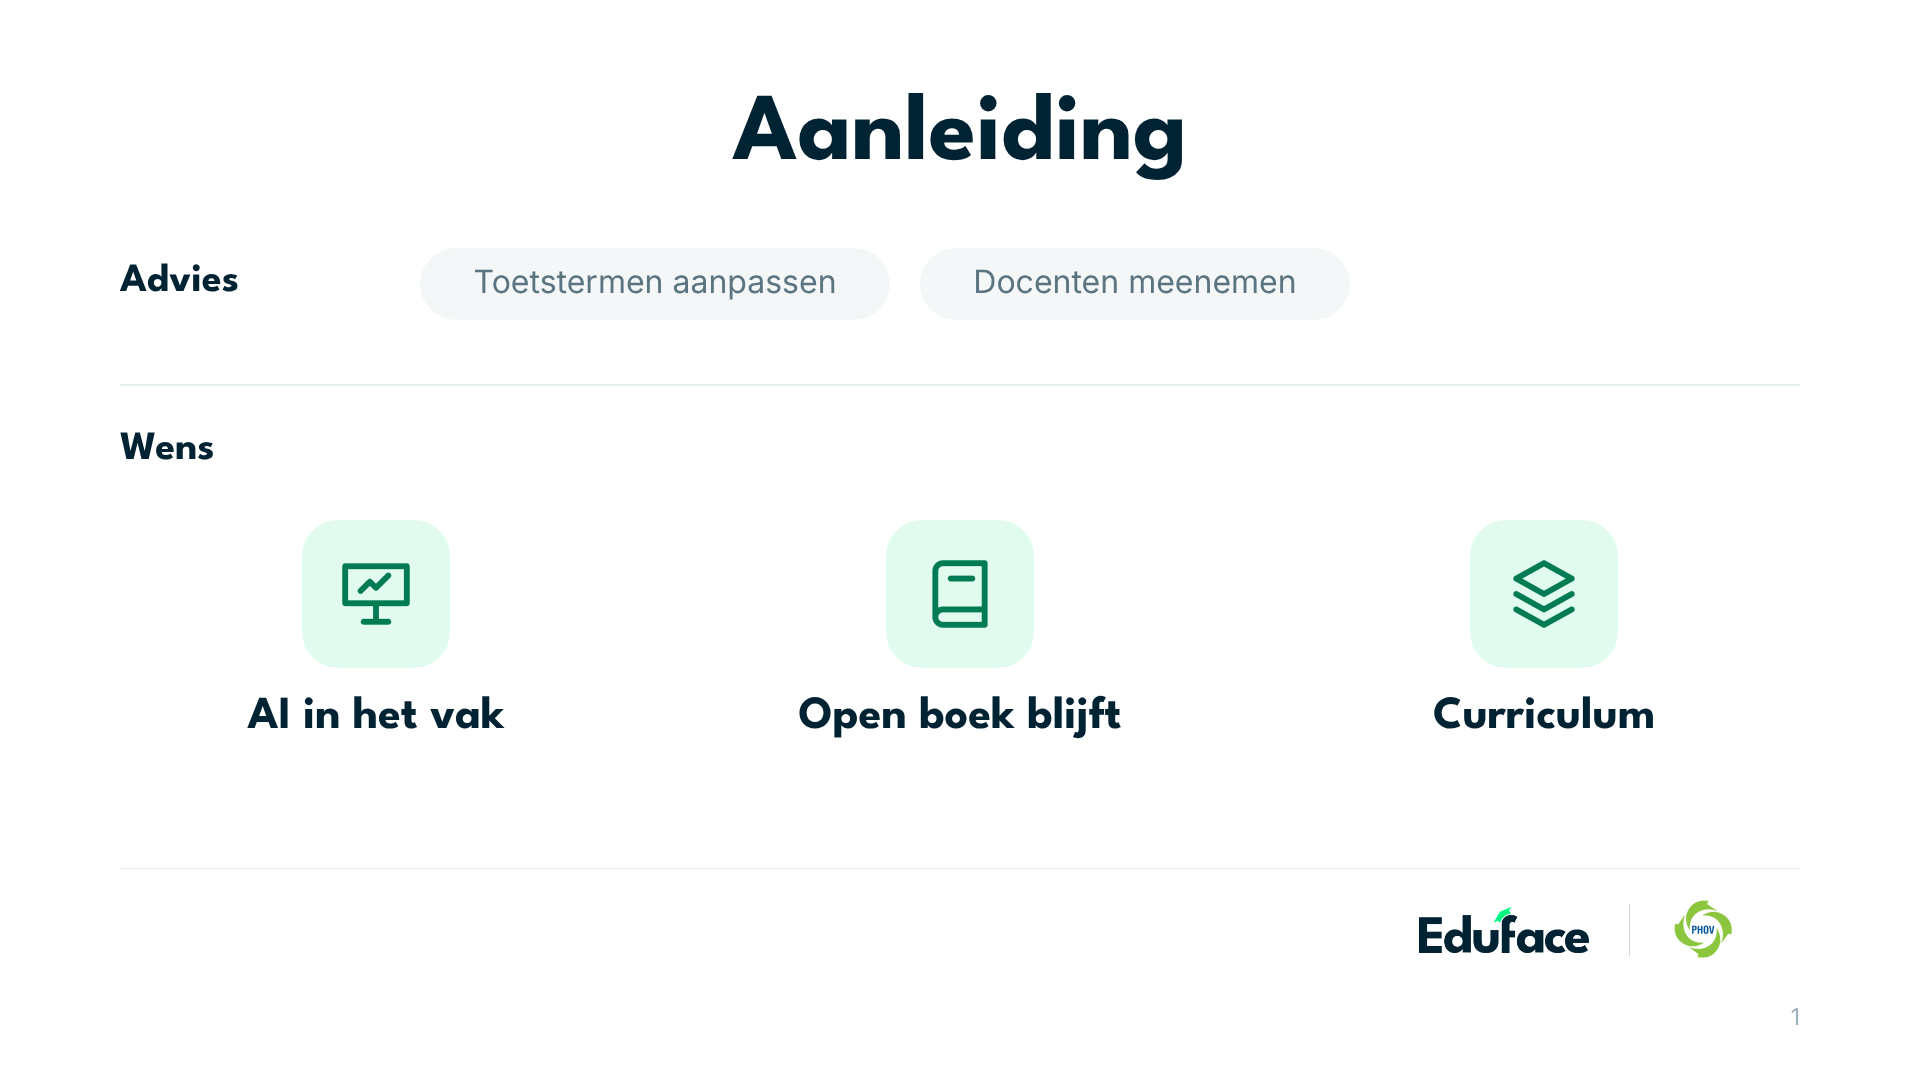
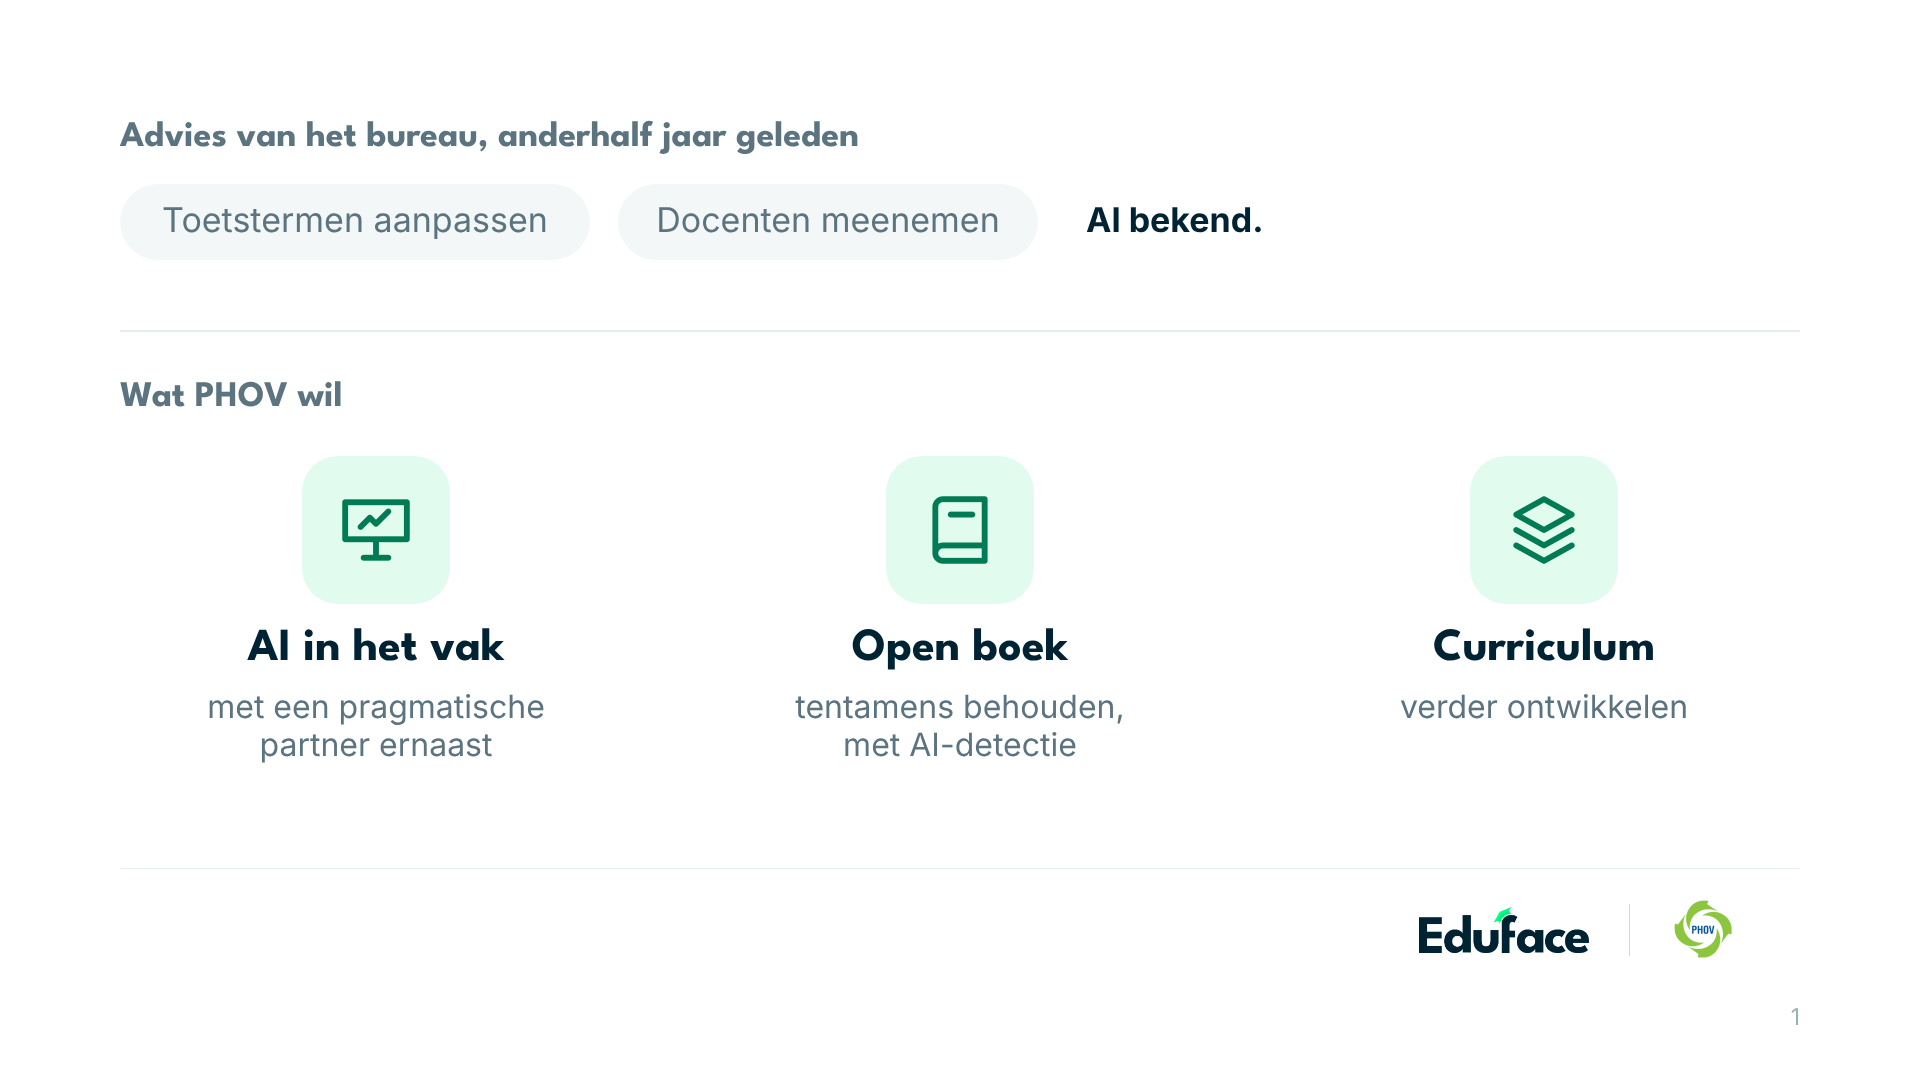
PHOV-deck: slide 1 aanleiding
Claude-Session: https://claude.ai/code/session_011t24oQakExxjssoBJFRTe8

diff --git a/GTM/Accounts/phov/deck/preview/01-aanleiding.html b/GTM/Accounts/phov/deck/preview/01-aanleiding.html
@@ -1,1 +1,3 @@
-<!DOCTYPE html><html lang="nl"><head><meta charset="utf-8"><link href="https://fonts.googleapis.com/css2?family=League+Spartan:wght@400;600;700;800&family=Inter:wght@400;500;600;700&display=swap" rel="stylesheet"><style>*{margin:0;padding:0;box-sizing:border-box}html,body{background:#fff}.slide{position:relative;width:1920px;height:1080px;overflow:hidden;background:#fff}</style></head><body><div class="slide"><div style="position:absolute;left:120.0px;top:88.0px;width:1680.0px;height:120.0px;font-family:'League Spartan',sans-serif;font-size:96px;font-weight:700;color:#002333;text-align:center;line-height:1.0;white-space:pre-line">Aanleiding</div><div style="position:absolute;left:120.0px;top:262.0px;width:400.0px;height:44.0px;font-family:'League Spartan',sans-serif;font-size:40px;font-weight:700;color:#002333;text-align:left;line-height:1.0;white-space:pre-line">Advies</div><div style="position:absolute;left:420.0px;top:248.0px;width:470.0px;height:72.0px;background:#F3F7F8;border-radius:36.0px"></div><div style="position:absolute;left:420.0px;top:266.0px;width:470.0px;height:40.0px;font-family:'Inter',sans-serif;font-size:32px;font-weight:400;color:#5B7480;text-align:center;line-height:1.0;white-space:pre-line">Toetstermen aanpassen</div><div style="position:absolute;left:920.0px;top:248.0px;width:430.0px;height:72.0px;background:#F3F7F8;border-radius:36.0px"></div><div style="position:absolute;left:920.0px;top:266.0px;width:430.0px;height:40.0px;font-family:'Inter',sans-serif;font-size:32px;font-weight:400;color:#5B7480;text-align:center;line-height:1.0;white-space:pre-line">Docenten meenemen</div><div style="position:absolute;left:120.0px;top:384.0px;width:1680.0px;height:2.0px;background:#E7EEF0;border-radius:0.0px"></div><div style="position:absolute;left:120.0px;top:430.0px;width:400.0px;height:44.0px;font-family:'League Spartan',sans-serif;font-size:40px;font-weight:700;color:#002333;text-align:left;line-height:1.0;white-space:pre-line">Wens</div><div style="position:absolute;left:302.0px;top:520.0px;width:148.0px;height:148.0px;background:#E2FBEF;border-radius:36.0px"></div><img src="../assets/icon-docenten-green.png" style="position:absolute;left:339.0px;top:557.0px;width:74.0px;height:74.0px;object-fit:contain"><div style="position:absolute;left:120.0px;top:694.0px;width:512.0px;height:50.0px;font-family:'League Spartan',sans-serif;font-size:46px;font-weight:700;color:#002333;text-align:center;line-height:1.0;white-space:pre-line">AI in het vak</div><div style="position:absolute;left:886.0px;top:520.0px;width:148.0px;height:148.0px;background:#E2FBEF;border-radius:36.0px"></div><img src="../assets/icon-boek-green.png" style="position:absolute;left:923.0px;top:557.0px;width:74.0px;height:74.0px;object-fit:contain"><div style="position:absolute;left:704.0px;top:694.0px;width:512.0px;height:50.0px;font-family:'League Spartan',sans-serif;font-size:46px;font-weight:700;color:#002333;text-align:center;line-height:1.0;white-space:pre-line">Open boek blijft</div><div style="position:absolute;left:1470.0px;top:520.0px;width:148.0px;height:148.0px;background:#E2FBEF;border-radius:36.0px"></div><img src="../assets/icon-lagen-green.png" style="position:absolute;left:1507.0px;top:557.0px;width:74.0px;height:74.0px;object-fit:contain"><div style="position:absolute;left:1288.0px;top:694.0px;width:512.0px;height:50.0px;font-family:'League Spartan',sans-serif;font-size:46px;font-weight:700;color:#002333;text-align:center;line-height:1.0;white-space:pre-line">Curriculum</div><div style="position:absolute;left:120.0px;top:868.0px;width:1680.0px;height:1.0px;background:#E7EEF0;border-radius:0.0px"></div><img src="../assets/logo_navy.png" style="position:absolute;left:1419.0px;top:907.0px;width:170.0px;height:46.0px;object-fit:contain"><div style="position:absolute;left:1629.0px;top:904.0px;width:1.0px;height:52.0px;background:#CDD9DE;border-radius:0.0px"></div><img src="../assets/klant.png" style="position:absolute;left:1670.0px;top:898.0px;width:64.0px;height:64.0px;object-fit:contain"><div style="position:absolute;left:1700.0px;top:1004.0px;width:100.0px;height:36.0px;font-family:'Inter',sans-serif;font-size:23px;font-weight:400;color:#9AAFB8;text-align:right;line-height:1.15;white-space:pre-line">1</div></div></body></html>
+<!DOCTYPE html><html lang="nl"><head><meta charset="utf-8"><link href="https://fonts.googleapis.com/css2?family=League+Spartan:wght@400;600;700;800&family=Inter:wght@400;500;600;700&display=swap" rel="stylesheet"><style>*{margin:0;padding:0;box-sizing:border-box}html,body{background:#fff}.slide{position:relative;width:1920px;height:1080px;overflow:hidden;background:#fff}</style></head><body><div class="slide"><div style="position:absolute;left:120.0px;top:120.0px;width:1200.0px;height:40.0px;font-family:'League Spartan',sans-serif;font-size:36px;font-weight:700;color:#5B7480;text-align:left;line-height:1.0;white-space:pre-line">Advies van het bureau, anderhalf jaar geleden</div><div style="position:absolute;left:120.0px;top:184.0px;width:470.0px;height:76.0px;background:#F3F7F8;border-radius:38.0px"></div><div style="position:absolute;left:120.0px;top:203.0px;width:470.0px;height:40.0px;font-family:'Inter',sans-serif;font-size:34px;font-weight:400;color:#5B7480;text-align:center;line-height:1.0;white-space:pre-line">Toetstermen aanpassen</div><div style="position:absolute;left:618.0px;top:184.0px;width:420.0px;height:76.0px;background:#F3F7F8;border-radius:38.0px"></div><div style="position:absolute;left:618.0px;top:203.0px;width:420.0px;height:40.0px;font-family:'Inter',sans-serif;font-size:34px;font-weight:400;color:#5B7480;text-align:center;line-height:1.0;white-space:pre-line">Docenten meenemen</div><div style="position:absolute;left:1086.0px;top:203.0px;width:400.0px;height:40.0px;font-family:'Inter',sans-serif;font-size:34px;font-weight:700;color:#002333;text-align:left;line-height:1.0;white-space:pre-line">Al bekend.</div><div style="position:absolute;left:120.0px;top:330.0px;width:1680.0px;height:2.0px;background:#E7EEF0;border-radius:0.0px"></div><div style="position:absolute;left:120.0px;top:380.0px;width:1200.0px;height:40.0px;font-family:'League Spartan',sans-serif;font-size:36px;font-weight:700;color:#5B7480;text-align:left;line-height:1.0;white-space:pre-line">Wat PHOV wil</div><div style="position:absolute;left:302.0px;top:456.0px;width:148.0px;height:148.0px;background:#E2FBEF;border-radius:36.0px"></div><img src="../assets/icon-docenten-green.png" style="position:absolute;left:339.0px;top:493.0px;width:74.0px;height:74.0px;object-fit:contain"><div style="position:absolute;left:120.0px;top:626.0px;width:512.0px;height:50.0px;font-family:'League Spartan',sans-serif;font-size:46px;font-weight:700;color:#002333;text-align:center;line-height:1.0;white-space:pre-line">AI in het vak</div><div style="position:absolute;left:120.0px;top:688.0px;width:512.0px;height:90.0px;font-family:'Inter',sans-serif;font-size:32px;font-weight:400;color:#5B7480;text-align:center;line-height:1.2;white-space:pre-line">met een pragmatische
+partner ernaast</div><div style="position:absolute;left:886.0px;top:456.0px;width:148.0px;height:148.0px;background:#E2FBEF;border-radius:36.0px"></div><img src="../assets/icon-boek-green.png" style="position:absolute;left:923.0px;top:493.0px;width:74.0px;height:74.0px;object-fit:contain"><div style="position:absolute;left:704.0px;top:626.0px;width:512.0px;height:50.0px;font-family:'League Spartan',sans-serif;font-size:46px;font-weight:700;color:#002333;text-align:center;line-height:1.0;white-space:pre-line">Open boek</div><div style="position:absolute;left:704.0px;top:688.0px;width:512.0px;height:90.0px;font-family:'Inter',sans-serif;font-size:32px;font-weight:400;color:#5B7480;text-align:center;line-height:1.2;white-space:pre-line">tentamens behouden,
+met AI-detectie</div><div style="position:absolute;left:1470.0px;top:456.0px;width:148.0px;height:148.0px;background:#E2FBEF;border-radius:36.0px"></div><img src="../assets/icon-lagen-green.png" style="position:absolute;left:1507.0px;top:493.0px;width:74.0px;height:74.0px;object-fit:contain"><div style="position:absolute;left:1288.0px;top:626.0px;width:512.0px;height:50.0px;font-family:'League Spartan',sans-serif;font-size:46px;font-weight:700;color:#002333;text-align:center;line-height:1.0;white-space:pre-line">Curriculum</div><div style="position:absolute;left:1288.0px;top:688.0px;width:512.0px;height:90.0px;font-family:'Inter',sans-serif;font-size:32px;font-weight:400;color:#5B7480;text-align:center;line-height:1.2;white-space:pre-line">verder ontwikkelen</div><div style="position:absolute;left:120.0px;top:868.0px;width:1680.0px;height:1.0px;background:#E7EEF0;border-radius:0.0px"></div><img src="../assets/logo_navy.png" style="position:absolute;left:1419.0px;top:907.0px;width:170.0px;height:46.0px;object-fit:contain"><div style="position:absolute;left:1629.0px;top:904.0px;width:1.0px;height:52.0px;background:#CDD9DE;border-radius:0.0px"></div><img src="../assets/klant.png" style="position:absolute;left:1670.0px;top:898.0px;width:64.0px;height:64.0px;object-fit:contain"><div style="position:absolute;left:1700.0px;top:1004.0px;width:100.0px;height:36.0px;font-family:'Inter',sans-serif;font-size:23px;font-weight:400;color:#9AAFB8;text-align:right;line-height:1.15;white-space:pre-line">1</div></div></body></html>

diff --git a/GTM/Accounts/phov/deck/build_deck.py b/GTM/Accounts/phov/deck/build_deck.py
@@ -16,19 +16,28 @@ S = []
 def add(naam, els, notes='', dark=False): S.append((naam, els, notes, dark))
 
 # ---------------------------------------------------------------- 1 aanleiding
-# Boven het advies dat ze al kenden, grijs. Onder wat ze echt wilden, groen.
+# Geen kop. Boven het advies van het bureau, grijs, want dat wisten ze al.
+# Onder wat PHOV echt wilde, in groen: daar gaat de rest van het deck over.
 c3, w3 = cols(3)
-els = title('Aanleiding')
-els += [text(M, 262, 400, 44, 'Advies', font=HEAD, size=40, bold=True, align='left', ls=1.0)]
-for x, w, lbl in [(420, 470, 'Toetstermen aanpassen'), (920, 430, 'Docenten meenemen')]:
-    els += [rect(x, 248, w, 72, INK50, r=36),
-            text(x, 266, w, 40, lbl, size=32, color=INK500, ls=1.0)]
-els += [rect(M, 384, 1920 - 2 * M, 2, INK100),
-        text(M, 430, 400, 44, 'Wens', font=HEAD, size=40, bold=True, align='left', ls=1.0)]
-for cx, (ic, lbl) in zip(c3, [('docenten', 'AI in het vak'), ('boek', 'Open boek blijft'),
-                              ('lagen', 'Curriculum')]):
-    els += tile(cx, 520, ic, 'green')
-    els += [text(cx - w3 / 2, 694, w3, 50, lbl, font=HEAD, size=46, bold=True, ls=1.0)]
+els = [text(M, 120, 1200, 40, 'Advies van het bureau, anderhalf jaar geleden', font=HEAD,
+            size=36, bold=True, color=INK500, align='left', ls=1.0)]
+x = M
+for lbl, w in [('Toetstermen aanpassen', 470), ('Docenten meenemen', 420)]:
+    els += [rect(x, 184, w, 76, INK50, r=38),
+            text(x, 203, w, 40, lbl, size=34, color=INK500, ls=1.0)]
+    x += w + 28
+els += [text(x + 20, 203, 400, 40, 'Al bekend.', size=34, bold=True, color=NAVY,
+             align='left', ls=1.0),
+        rect(M, 330, 1920 - 2 * M, 2, INK100),
+        text(M, 380, 1200, 40, 'Wat PHOV wil', font=HEAD, size=36, bold=True,
+             color=INK500, align='left', ls=1.0)]
+for cx, (ic, kop, wat) in zip(c3, [
+        ('docenten', 'AI in het vak', 'met een pragmatische\npartner ernaast'),
+        ('boek', 'Open boek', 'tentamens behouden,\nmet AI-detectie'),
+        ('lagen', 'Curriculum', 'verder ontwikkelen')]):
+    els += tile(cx, 456, ic, 'green')
+    els += [text(cx - w3 / 2, 626, w3, 50, kop, font=HEAD, size=46, bold=True, ls=1.0),
+            text(cx - w3 / 2, 688, w3, 90, wat, size=32, color=INK500, ls=1.2)]
 els += foot(page=1)
 add('01-aanleiding', els, notes="""Anderhalf jaar geleden heeft PHOV een bureau ingehuurd. De vraag was hoe ze AI in hun onderwijs kunnen inzetten en hoe ze docenten daarbij helpen.
 Het advies was "toetstermen aanpassen" en "docenten meenemen". Dat wisten ze al.
